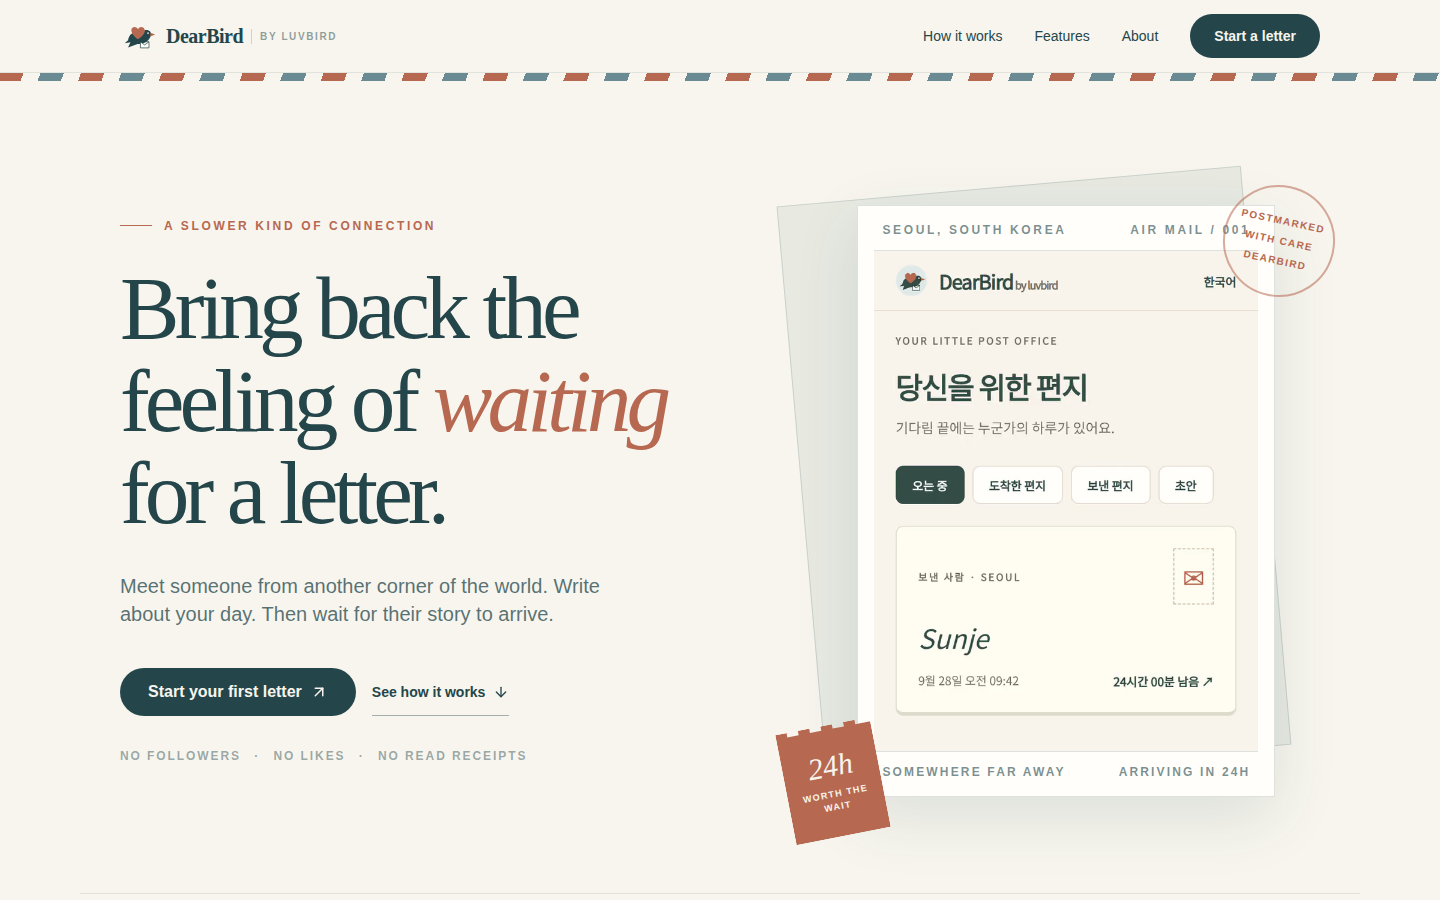
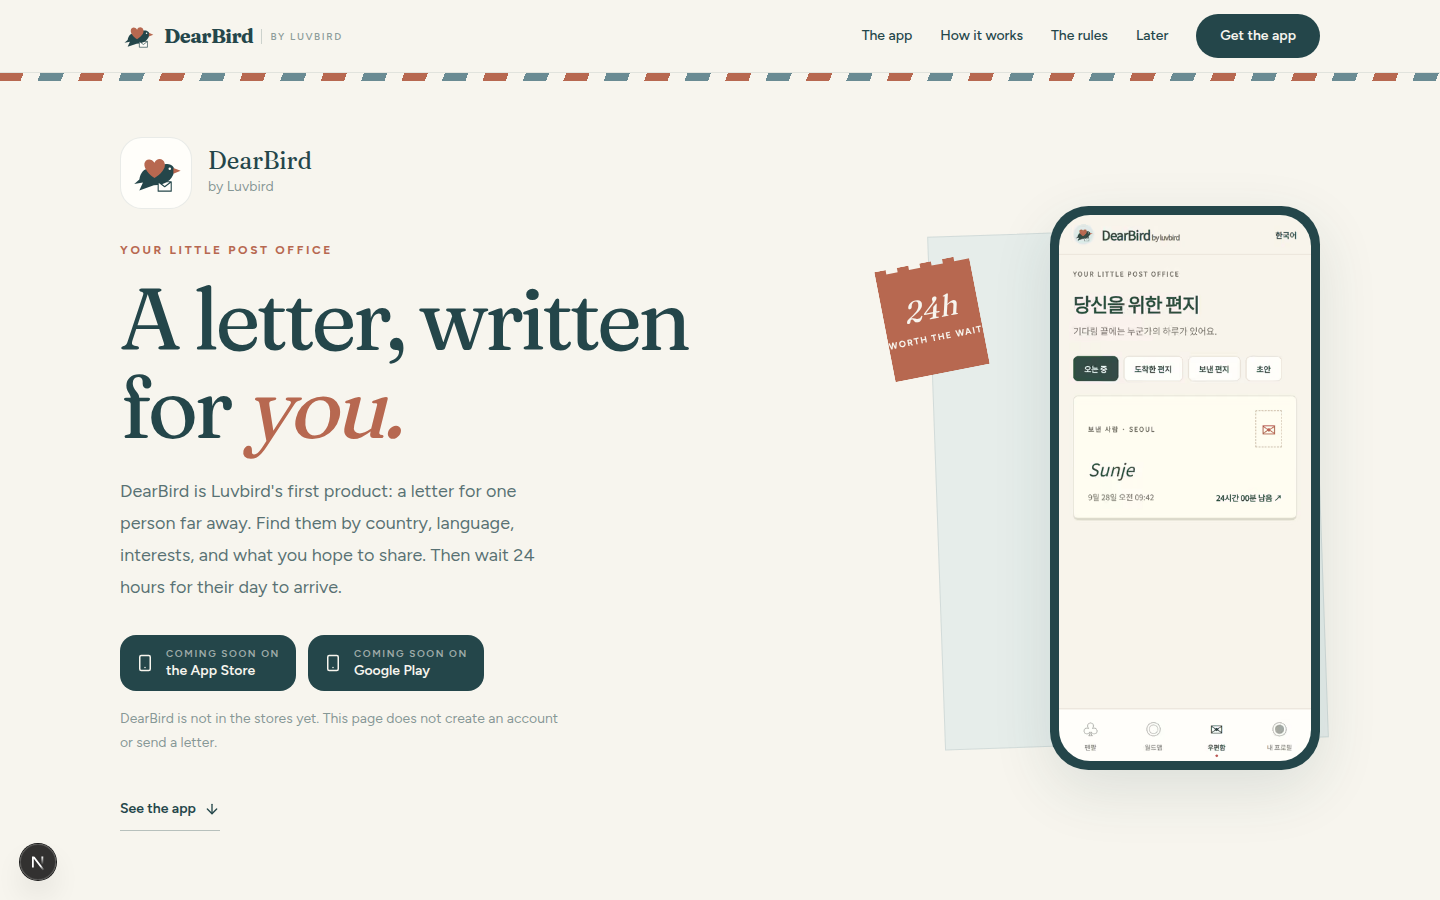
fix: check the letter flow in order
Start the app tour at Find, add Reply as the fourth moment, and serve the brand mark so the favicon no longer 404s.

diff --git a/components/how-it-works.tsx b/components/how-it-works.tsx
@@ -1,7 +1,8 @@
 const steps = [
   { n: "01", title: "Find", body: "Choose someone by country, language, interests, and the exchange you want." },
   { n: "02", title: "Write", body: "Send a photo and a piece of your day, meant for that one person." },
-  { n: "03", title: "Wait", body: "The letter travels for 24 hours. They reply when they are ready." },
+  { n: "03", title: "Wait", body: "The letter travels for about 24 hours. That wait is part of the letter." },
+  { n: "04", title: "Reply", body: "They open it when they are ready, and answer at their own pace." },
 ];
 
 export function HowItWorks() {
@@ -11,13 +12,13 @@ export function HowItWorks() {
         <div className="flex flex-col justify-between gap-4 md:flex-row md:items-end">
           <div>
             <p className="eyebrow">How a letter moves</p>
-            <h2 className="mt-4 font-serif text-4xl tracking-tight sm:text-5xl">Three steps in the app.</h2>
+            <h2 className="mt-4 font-serif text-4xl tracking-tight sm:text-5xl">Four moments, in order.</h2>
           </div>
-          <p className="max-w-sm text-lg leading-7 text-ink/65">Find, write, wait. That is the whole product.</p>
+          <p className="max-w-sm text-lg leading-7 text-ink/65">Find, write, wait, reply. That is the whole product.</p>
         </div>
-        <ol className="mt-12 grid border-t border-ink/20 md:grid-cols-3">
+        <ol className="mt-12 grid gap-x-10 sm:grid-cols-2 lg:grid-cols-4">
           {steps.map((step) => (
-            <li key={step.n} className="border-b border-ink/20 py-8 md:border-b-0 md:px-8 md:first:pl-0 md:last:pr-0">
+            <li key={step.n} className="border-t border-ink/20 py-8">
               <p className="eyebrow">{step.n}</p>
               <h3 className="mt-4 font-serif text-4xl">{step.title}</h3>
               <p className="mt-3 max-w-xs leading-7 text-ink/65">{step.body}</p>

diff --git a/components/app-tour.tsx b/components/app-tour.tsx
@@ -46,9 +46,9 @@ const places = [
 ];
 
 export function AppTour() {
-  const [active, setActive] = useState<(typeof steps)[number]["id"]>("wait");
+  const [active, setActive] = useState<(typeof steps)[number]["id"]>("pals");
   const frame = useRef<HTMLDivElement>(null);
-  const step = steps.find((item) => item.id === active) ?? steps[2];
+  const step = steps.find((item) => item.id === active) ?? steps[0];
 
   const choose = (id: (typeof steps)[number]["id"]) => {
     setActive(id);
@@ -66,7 +66,7 @@ export function AppTour() {
             The same four moments you will use.
           </h2>
           <p className="mt-5 max-w-xl text-lg leading-8 text-ink/70">
-            These are real DearBird screens. Tap a step and the phone follows.
+            These are real DearBird screens, in the order a letter moves. Choose a step and the phone follows.
           </p>
         </div>
 

diff --git a/next.config.ts b/next.config.ts
@@ -2,6 +2,9 @@ import type { NextConfig } from "next";
 
 const nextConfig: NextConfig = {
   images: { formats: ["image/avif", "image/webp"] },
+  async redirects() {
+    return [{ source: "/favicon.ico", destination: "/brand-mark.svg", permanent: false }];
+  },
 };
 
 export default nextConfig;

diff --git a/README.md b/README.md
@@ -56,7 +56,7 @@ The landing page (`app/page.tsx`) is composed of small section components in `co
 | Hero | App-listing header, store buttons, and the real mailbox screen inside a phone frame. A "24h" stamp moves subtly on scroll. |
 | Problem | Frames why a slow letter app exists: instant messages, read receipts, endless feeds, disposable conversations. |
 | Inside the app | Switches among four real screens: pen pals, write, mailbox, open letter. Lists the four places in the app. |
-| How it works | Three steps in the app: Find, Write, Wait. |
+| How it works | Four moments, in order: Find, Write, Wait, Reply. |
 | The rules | Four limits that stay at launch: 24 hours, no read receipts, city-level location, one letter to one person. |
 | Physical letter vision | Clearly labeled as "A future chapter": paper mail is not part of the app launch. |
 | Final CTA | App Store and Google Play buttons that say the app is coming soon. They do not collect data or open a store listing. |
@@ -75,8 +75,8 @@ The product flow that the landing page communicates:
 
 ```mermaid
 flowchart LR
-    A[Find a pen pal<br/>by country, language, interests] --> B[Write a letter<br/>with a photo]
-    B --> C[Letter in transit<br/>24 hours]
+    A[Find someone<br/>country, language, interests, purpose] --> B[Write a letter<br/>with a photo]
+    B --> C[Letter in transit<br/>about 24 hours]
     C --> D[Letter arrives<br/>no read receipt]
     D --> E[Reply when ready]
     E --> C
@@ -130,7 +130,7 @@ flowchart TD
 
 ## Current Status
 
-- The landing page is complete. `npm run typecheck` and `npm run build` pass, and every route is prerendered as static content.
+- Quality check passed. `npm run typecheck` and `npm run build` pass, and every route is prerendered as static content. The page has one `h1`, no horizontal overflow on desktop or a 390px screen, and the letter moves in order: Find, Write, Wait, Reply.
 - The CTA is a launch placeholder. There is no signup, waitlist, or backend in this repository.
 - Footer Privacy, Terms, and Contact entries are placeholders.
 - Physical mail is a future vision, not a shipped feature.
